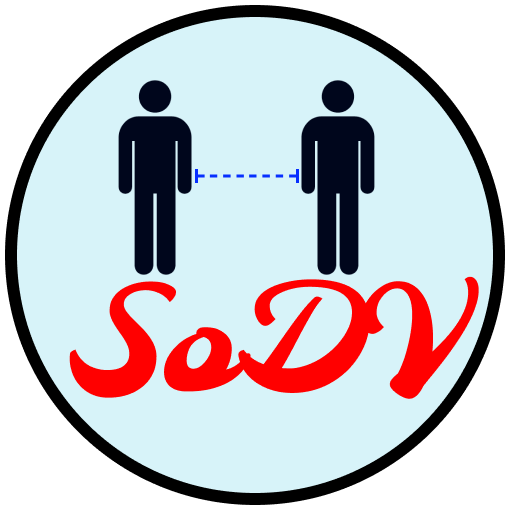
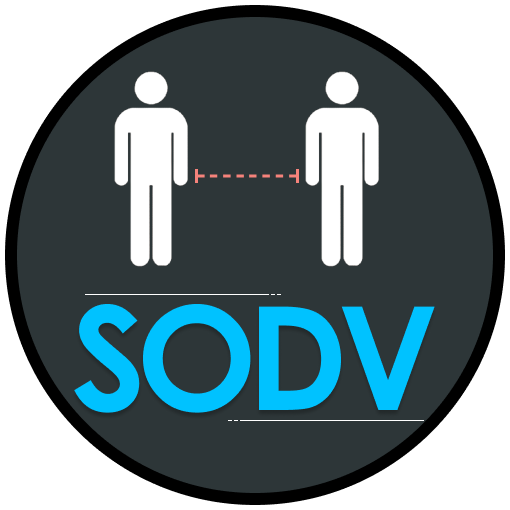
license

diff --git a/README.md b/README.md
@@ -1,10 +1,10 @@
 <div align="center">
-  <img src="images/SoDV-v0.2.png">
+  <img src="images/sodv.png">
 </div>
 
 # SODV: Social Distancing Violation System YOLO version 3
 
-![SoDV](https://img.shields.io/badge/Build-v1.1-blue) [![LICENSE](https://img.shields.io/badge/license-MIT-blue)](https://github.com/afiqharith/SocialDistanceDetector-SODV/blob/master/LICENSE) [![FKE](https://img.shields.io/badge/FKE-UiTM-purple)](https://fke.uitm.edu.my/) [![RMC](https://img.shields.io/badge/RMC-UiTM-purple)](https://rmc.uitm.edu.my/v2/)
+![SoDV](https://img.shields.io/badge/Build-v1.1-blue) [![LICENSE](https://img.shields.io/badge/license-MIT-blue)](https://github.com/afiqharith/SocialDistanceDetector-SODV/blob/master/LICENSE) [![FKE](https://img.shields.io/badge/FKE-UiTM-purple)](https://fke.uitm.edu.my/) [![RMC](https://img.shields.io/badge/RMC-UiTM-purple)](https://rmc.uitm.edu.my/)
 
 This project is a social distancing violation detection system implemented using Python. The previous development of this project used MobileNet SSD pre-trained on MS-COCO as the person detection algorithm. After the [previous project](https://github.com/afiqharith/SocialDistancing-SafetyViolationROI-MobileNetSSD-FYP.git 'Build v1.0 passing') finished in July 2020, I decided to further improve the detection algorithm by changing from MobileNet SSD to YOLOv3 to increase the accuracy. The program uses OpenCV for the image processing and utilizing the DNN module which solely tested on CPU. The system accuracy tested on Oxford Town Centre CCTV video-dataset (266 frames). This project was submitted to Malaysia Technology Expo (MTE) 2020 Special Edition COVID-19 International Innovation Awards under Faculty of Electrical Engineering of Universiti Teknologi MARA.
 </br>
@@ -92,4 +92,4 @@ MegaPixels: Origins, Ethics, and Privacy Implications of Publicly Available Face
 
 #### LICENSE
 
-_This project is under MIT license, please look at [LICENSE](https://github.com/afiqharith/SocialDistanceDetector-SODV/blob/master/LICENSE)._
+_This project is licensed under the terms of the [MIT license](https://github.com/afiqharith/SocialDistanceDetector-SODV/blob/master/LICENSE)._
